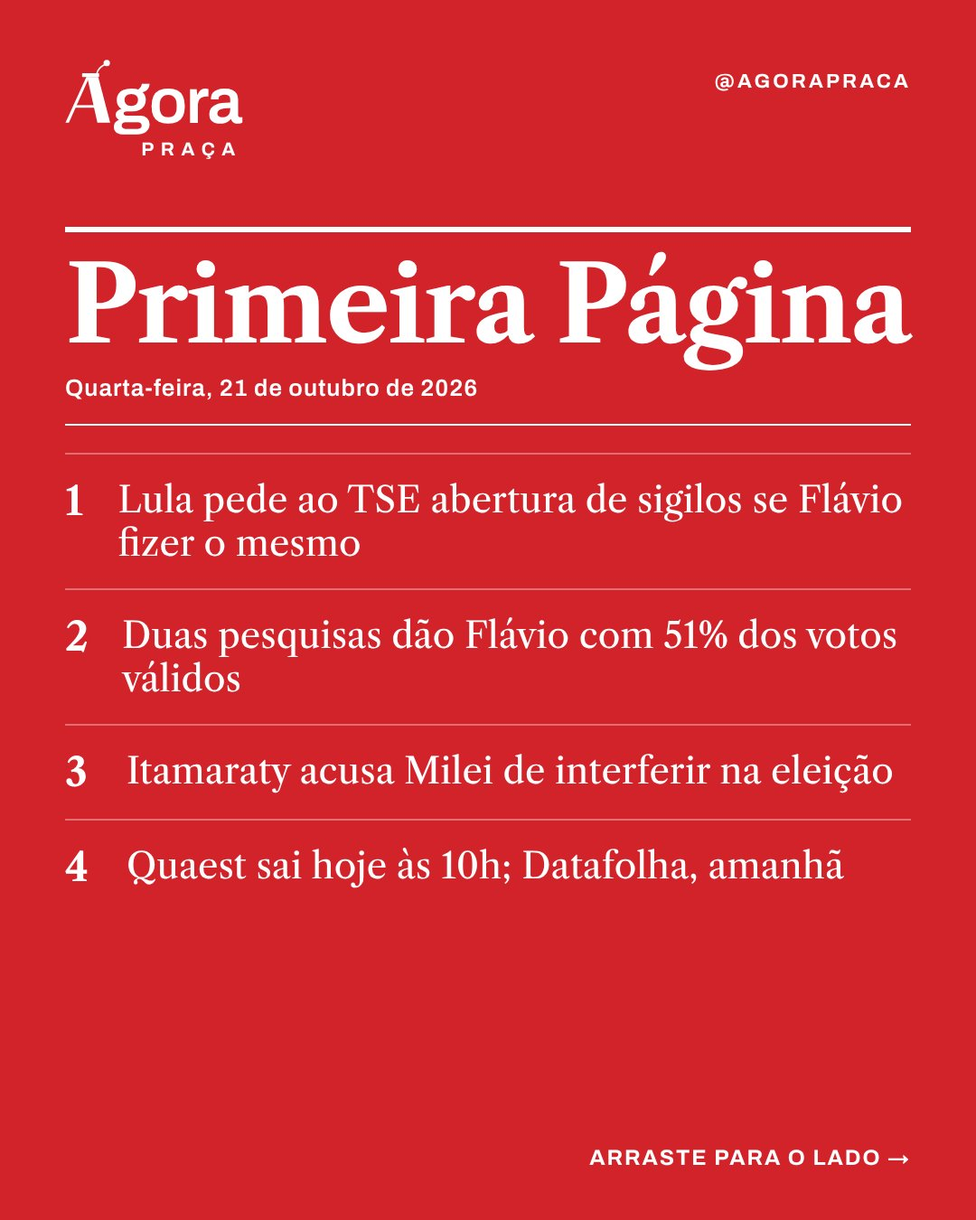
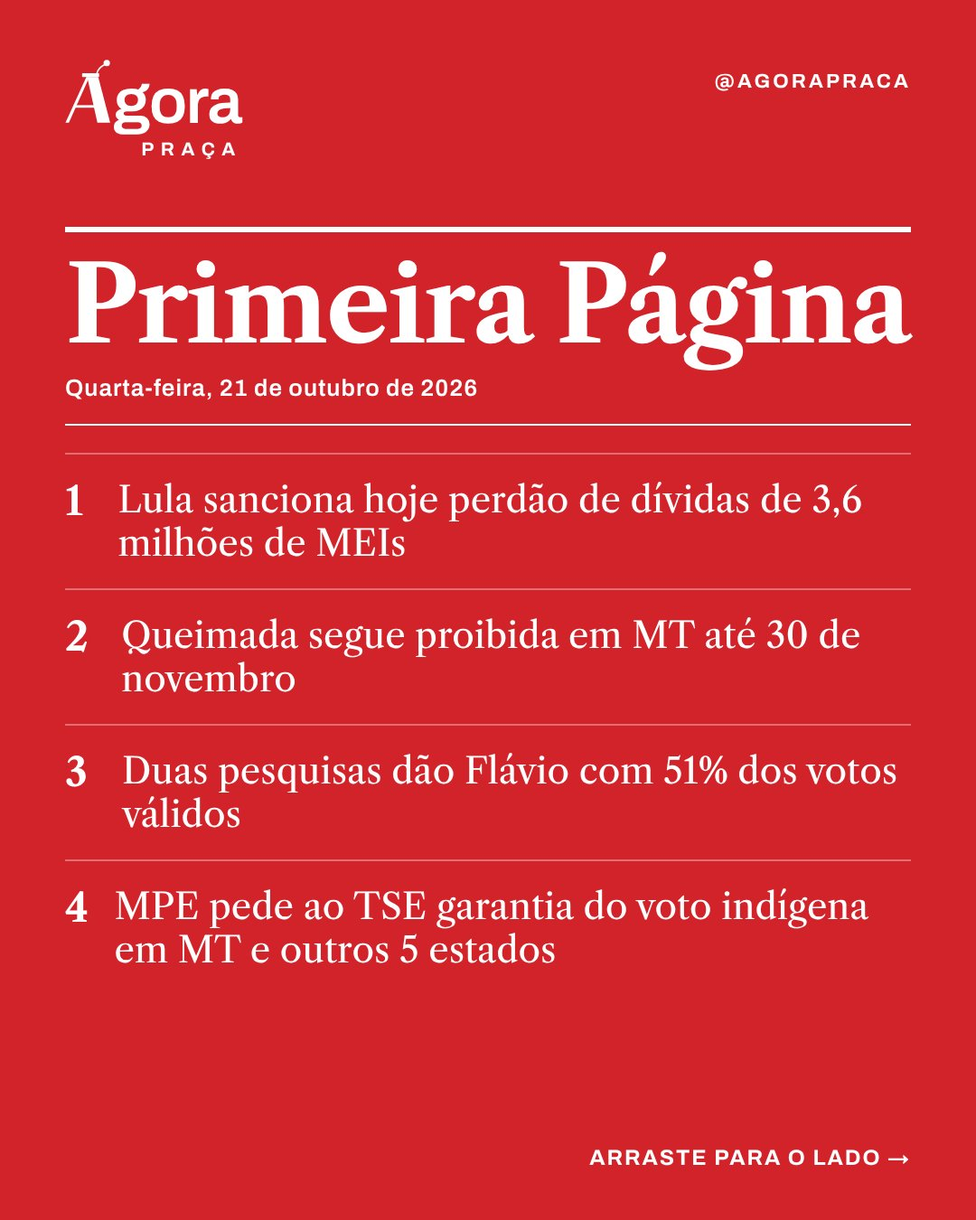
Primeira Página de 21/10 refeita: MEI, queimadas em MT, pesquisas e voto indígena
Claude-Session: https://claude.ai/code/session_01CdmM6LvxFe71fHrnqNZwTo

diff --git a/primeira-pagina/2026-10-21/index.html b/primeira-pagina/2026-10-21/index.html
@@ -4,12 +4,12 @@
 <meta charset="utf-8">
 <meta name="viewport" content="width=device-width, initial-scale=1, viewport-fit=cover">
 <title>Primeira Página de 21 out 2026 | Agora Praça</title>
-<meta name="description" content="Lula pede ao TSE que abra os sigilos bancário, fiscal e telefônico dele, de Janja e dos cinco filhos, se Flávio Bolsonaro fizer o mesmo com os dele e os da família. Aliados de Flávio dizem que ele não vai aceitar.">
+<meta name="description" content="Lula sanciona hoje a lei que perdoa dívidas de 3,6 milhões de MEIs, que somam R$ 12,57 bilhões, e sobe o teto de faturamento para R$ 110 mil em 2027. Para manter o perdão, o DAS precisa ficar em dia por seis meses.">
 <link rel="canonical" href="https://agorapraca.com.br/primeira-pagina/2026-10-21/">
 <meta property="og:type" content="website">
 <meta property="og:site_name" content="Agora Praça">
 <meta property="og:title" content="Primeira Página de 21 out 2026">
-<meta property="og:description" content="Lula pede ao TSE que abra os sigilos bancário, fiscal e telefônico dele, de Janja e dos cinco filhos, se Flávio Bolsonaro fizer o mesmo com os dele e os da família. Aliados de Flávio dizem que ele não vai aceitar.">
+<meta property="og:description" content="Lula sanciona hoje a lei que perdoa dívidas de 3,6 milhões de MEIs, que somam R$ 12,57 bilhões, e sobe o teto de faturamento para R$ 110 mil em 2027. Para manter o perdão, o DAS precisa ficar em dia por seis meses.">
 <meta property="og:url" content="https://agorapraca.com.br/primeira-pagina/2026-10-21/">
 <meta property="og:image" content="https://agorapraca.com.br/pp/2026-10-21/01.jpg">
 <meta property="og:locale" content="pt_BR">
@@ -33,11 +33,11 @@
 <div class="wrap estreita materia">
 <div class="chap"><span class="kicker kicker-red">Primeira Página</span><span class="sub">Edição das 7h</span></div>
 <h1>O resumo de quarta-feira, 21 de outubro de 2026</h1>
-<p class="linha-fina">Lula pede ao TSE que abra os sigilos dele e da família se Flávio fizer o mesmo, duas novas pesquisas mostram Flávio com 51% dos votos válidos e o Itamaraty acusa Javier Milei de tentar interferir na eleição. Faltam quatro dias para o 2º turno.</p>
+<p class="linha-fina">Lula sanciona hoje a lei que perdoa dívidas de MEIs e aumenta o teto de faturamento, a queimada segue proibida em Mato Grosso até o fim de novembro, duas pesquisas mostram empate técnico com Flávio numericamente à frente e o Ministério Público Eleitoral pede garantias para o voto indígena. Faltam quatro dias para o 2º turno.</p>
 <h2 class="h2-telas">Nesta edição</h2>
-<ol class="pp-lista pp-lista-g"><li><span class="n">1</span><span><a href="#s1">Lula pede ao TSE que abra os sigilos dele e de 6 familiares, se Flávio fizer o mesmo</a></span></li><li><span class="n">2</span><span><a href="#s2">Duas pesquisas mostram Flávio com 51% dos votos válidos e Lula com 49%</a></span></li><li><span class="n">3</span><span><a href="#s3">Itamaraty acusa Milei de tentar interferir na eleição brasileira</a></span></li></ol>
-<section class="pp-sec" id="s1"><span class="kicker kicker-red">Eleições 2026</span><h2>Lula pede ao TSE que abra os sigilos dele e de 6 familiares, se Flávio fizer o mesmo</h2><p>O presidente Luiz Inácio Lula da Silva (PT) enviou ao Tribunal Superior Eleitoral (TSE), na terça-feira (20), um requerimento que autoriza a quebra dos sigilos bancário, fiscal e telefônico dele e da família nos últimos oito anos. O pedido inclui a primeira-dama, Janja, e os cinco filhos: Lurian, Marcos Cláudio, Fábio Luís, Sandro Luís e Luís Claudio.</p><p>A autorização tem uma condição. Os dados de Lula só devem ser abertos se Flávio Bolsonaro (PL) fizer o mesmo com os dele, os da esposa, Fernanda, os dos pais, Jair e Rogéria Bolsonaro, e os dos irmãos Carlos, Eduardo e Jair Renan. Entram também as empresas em que os candidatos são sócios ou administradores: uma ligada a Lula e cinco ligadas a Flávio, uma delas uma offshore, segundo a Agência Brasil.</p><p>O requerimento foi encaminhado ao presidente do TSE, ministro Kassio Nunes Marques. Lula pediu que os dados fossem divulgados antes desta quarta-feira (21). Até a publicação desta edição, o tribunal não tinha decidido.</p><p>Flávio não se manifestou oficialmente. Aliados que integram a campanha disseram ao SBT News que ele não vai aceitar o desafio e classificaram a proposta como uma &quot;armadilha&quot; para gerar desgaste na reta final. No debate da Band, no domingo (18), Flávio disse não ter nada a esconder, mas não se comprometeu a abrir os dados.</p><p class="obs">Fontes: <a href="https://agenciabrasil.ebc.com.br/politica/noticia/2026-10/tse-lula-autoriza-quebra-de-sigilo-bancario-se-flavio-fizer-o-mesmo" rel="noopener">Agência Brasil, o requerimento ao TSE (20/10)</a> · <a href="https://sbtnews.sbt.com.br/colunas/coluna-do-tulio/flavio-nao-vai-aceitar-desafio-de-lula-para-abrir-sigilos" rel="noopener">SBT News, bastidores da campanha de Flávio (20/10)</a></p></section><section class="pp-sec" id="s2"><span class="kicker kicker-red">Pesquisas</span><h2>Duas pesquisas mostram Flávio com 51% dos votos válidos e Lula com 49%</h2><p>Duas pesquisas divulgadas na manhã desta quarta mostram Flávio Bolsonaro com 2 pontos de vantagem sobre Lula nos votos válidos, dentro da margem de erro. Nos números a seguir, o primeiro é de Flávio e o segundo, de Lula.</p><p>Na Meio/Ideia, são 51,1% a 48,9% nos votos válidos e 48% a 46% nos votos totais, com 3,4% de brancos e nulos e 2,6% de indecisos. Foram 1.500 entrevistas entre 15 e 19 de outubro, com margem de erro de 2,5 pontos. O registro no TSE é BR-08251/2026.</p><p>Na Palver, são 51% a 49% nos votos válidos e 50% a 48% nos totais. Foram 5.000 entrevistas pela internet entre 18 e 20 de outubro, com margem de 2,4 pontos. Em relação à rodada de 13 de outubro, Flávio manteve o número e Lula caiu 1 ponto.</p><p>A Quaest divulga a nova rodada às 10h de Brasília (9h em Mato Grosso). Foram 2.154 entrevistas presenciais entre 17 e 20 de outubro, registro BR-08535/2026. Na rodada anterior, de 14 de outubro, Flávio tinha 51% dos votos válidos e Lula, 49%.</p><p>Votos válidos são os votos dados a candidatos, sem brancos e nulos. É a mesma conta que define o vencedor no domingo.</p><p class="obs">Fontes: <a href="https://www.metropoles.com/brasil/meio-ideia-flavio-tem-511-dos-votos-validos-no-2o-turno-e-lula-489" rel="noopener">Metrópoles, Meio/Ideia (21/10)</a> · <a href="https://timesbrasil.com.br/brasil/decisao-2026-flavio-bolsonaro-tem-50-dos-votos-contra-48-de-lula-no-2o-turno-aponta-pesquisa-palver/" rel="noopener">Times Brasil, Palver (21/10)</a> · <a href="https://www.terra.com.br/noticias/eleicoes/pesquisas/quaest-divulga-nova-pesquisa-presidencial-nesta-quarta-feira-saiba-o-horario,1e6f3a873f42373d6ad322ca500535763ypq0pul.html" rel="noopener">Terra, Quaest às 10h (21/10)</a></p></section><section class="pp-sec" id="s3"><span class="kicker kicker-red">Internacional</span><h2>Itamaraty acusa Milei de tentar interferir na eleição brasileira</h2><p>O Ministério das Relações Exteriores divulgou nota na terça-feira (20) contra publicações do presidente da Argentina, Javier Milei, sobre Lula e a eleição brasileira. Nas redes, Milei chamou Lula de &quot;autoritário&quot; e &quot;ladrão&quot; e escreveu: &quot;Espero que o último truque sujo da campanha deles não inclua roubar a eleição&quot;.</p><p>A nota chama as falas de &quot;nova e inaceitável tentativa de ingerência externa no processo democrático brasileiro&quot; e defende a urna eletrônica: &quot;O sistema brasileiro de voto eletrônico é comprovadamente seguro, nunca registrou irregularidades&quot;. O texto termina dizendo que &quot;a decisão sobre o futuro do Brasil cabe exclusivamente ao povo brasileiro&quot;.</p><p>A relação entre os dois governos está rebaixada desde agosto, quando o governo Lula decidiu manter o embaixador em Buenos Aires, Julio Bitelli, no Brasil até Milei parar de ofender autoridades brasileiras. A crise começou depois que Milei declarou apoio a Flávio Bolsonaro.</p><p class="obs">Fontes: <a href="https://www.poder360.com.br/poder-internacional/itamaraty-diz-que-milei-tenta-interferir-em-eleicoes-brasileiras/" rel="noopener">Poder360, a nota do Itamaraty (20/10)</a></p></section><section class="pp-sec" id="agenda"><span class="kicker kicker-red">Agenda</span><h2>A semana</h2><ul class="pp-agenda"><li><b>Qua 21</b><span>Quaest divulga pesquisa do 2º turno às 10h de Brasília. Último dia de pagamento do Bolsa Família de outubro.</span></li><li><b>Qui 22</b><span>Datafolha divulga pesquisa do 2º turno.</span></li><li><b>Sex 23</b><span>Debate na TV Globo, depois do Jornal Nacional, o último antes da votação.</span></li><li><b>Sáb 24</b><span>Últimas pesquisas antes da votação: Quaest, Datafolha, AtlasIntel e CNT/MDA.</span></li><li><b>Dom 25</b><span>2º turno das eleições, das 8h às 17h de Brasília (7h às 16h em Mato Grosso).</span></li></ul></section>
-<details class="pp-insta"><summary>Ver como saiu no Instagram</summary><div class="telas"><img src="/pp/2026-10-21/01.jpg" alt="Tela 1 da Primeira Página" loading="lazy" width="1080" height="1350"><img src="/pp/2026-10-21/02.jpg" alt="Tela 2 da Primeira Página" loading="lazy" width="1080" height="1350"><img src="/pp/2026-10-21/03.jpg" alt="Tela 3 da Primeira Página" loading="lazy" width="1080" height="1350"><img src="/pp/2026-10-21/04.jpg" alt="Tela 4 da Primeira Página" loading="lazy" width="1080" height="1350"><img src="/pp/2026-10-21/05.jpg" alt="Tela 5 da Primeira Página" loading="lazy" width="1080" height="1350"></div></details>
+<ol class="pp-lista pp-lista-g"><li><span class="n">1</span><span><a href="#s1">Lula sanciona hoje lei que perdoa dívidas de 3,6 milhões de MEIs e sobe o teto para R$ 110 mil</a></span></li><li><span class="n">2</span><span><a href="#s2">Queimada segue proibida em MT até 30 de novembro, com multa de até R$ 10 mil por hectare</a></span></li><li><span class="n">3</span><span><a href="#s3">Duas pesquisas mostram Flávio com 51% dos votos válidos e Lula com 49%</a></span></li><li><span class="n">4</span><span><a href="#s4">MPE pede ao TSE que garanta o voto indígena no domingo em MT e outros 5 estados</a></span></li></ol>
+<section class="pp-sec" id="s1"><span class="kicker kicker-red">Serviço</span><h2>Lula sanciona hoje lei que perdoa dívidas de 3,6 milhões de MEIs e sobe o teto para R$ 110 mil</h2><p>O presidente Lula sanciona nesta quarta-feira (21), no Palácio do Planalto, o projeto Prospera MEI (PLP 186/2026), aprovado pelo Senado em 15 de outubro. A lei passa a valer depois da publicação no Diário Oficial da União. Até o fechamento desta edição, ela ainda não tinha sido publicada, e não se sabia se haveria vetos.</p><p>O teto de faturamento anual do microempreendedor individual sobe de R$ 81 mil, valor fixado em 2016, para R$ 110 mil em 2027 e R$ 140 mil em 2028. Para quem abrir a empresa no meio do ano, o limite mensal será de R$ 9.166,67 em 2027 e de R$ 11.666,67 em 2028.</p><p>O perdão vale para dívidas com a União inscritas na Dívida Ativa até 13 de outubro de 2026. Segundo a Procuradoria-Geral da Fazenda Nacional (PGFN), são cerca de 3,6 milhões de MEIs com R$ 12,57 bilhões em débitos, dos quais cerca de R$ 11 bilhões são considerados de recuperação muito difícil ou impossível.</p><p>Há condições. O MEI precisa pagar em dia o DAS dos seis meses seguintes à entrada em vigor da lei, ou o perdão é cancelado. Quem tem ação na Justiça sobre essas dívidas precisa desistir dela, sem pagar honorários. Valores já pagos não serão devolvidos.</p><p>As fontes divergem num ponto: a Agência Senado descreveu que o MEI precisa fazer um requerimento, e a PGFN afirmou, na segunda-feira (19), que o perdão será automático, sem pedido nem cadastro. A regra final depende do texto sancionado e da regulamentação da PGFN.</p><p>Atenção a golpes: nenhum órgão cobra taxa para conceder o perdão. Desconfie de boleto, link ou mensagem que peça pagamento ou dados em nome de &quot;perdão do MEI&quot;. Os canais oficiais são o Portal do Empreendedor e o Regularize, da PGFN.</p><p class="obs">Fontes: <a href="https://www12.senado.leg.br/noticias/materias/2026/10/15/senado-aprova-aumento-do-teto-para-mei-e-perdao-de-dividas" rel="noopener">Agência Senado, aprovação do projeto (15/10)</a> · <a href="https://www.contabeis.com.br/noticias/80184/pgfn-explica-como-funcionara-perdao-de-dividas-do-mei/" rel="noopener">Contábeis, a explicação da PGFN (20/10)</a> · <a href="https://www.cnnbrasil.com.br/eleicoes/lula-sanciona-hoje-perdao-de-dividas-de-meis-e-participa-de-caminhada-em-bh/" rel="noopener">CNN Brasil, a sanção hoje (21/10)</a></p></section><section class="pp-sec" id="s2"><span class="kicker kicker-red">Mato Grosso</span><h2>Queimada segue proibida em MT até 30 de novembro, com multa de até R$ 10 mil por hectare</h2><p>O uso do fogo para limpeza e manejo de áreas está proibido em todo o Mato Grosso de 1º de julho a 30 de novembro de 2026, pelo Decreto estadual nº 2.015, assinado em 28 de abril. O decreto também declarou estado de emergência ambiental de abril a dezembro e permite ao governo prorrogar ou antecipar o fim da proibição.</p><p>A proibição continua valendo mesmo com as primeiras chuvas. A única exceção são as queimas feitas ou supervisionadas por órgãos públicos de prevenção e combate a incêndios, que precisam avisar a Sala de Situação com 24 horas de antecedência.</p><p>As multas seguem o Decreto federal nº 6.514/2008: R$ 3 mil por hectare para uso de fogo sem autorização em área de pasto ou lavoura, R$ 5 mil por hectare em floresta plantada e R$ 10 mil por hectare para incêndio em vegetação nativa. A queima de lixo a céu aberto em área urbana pode render multa de R$ 5 mil a R$ 50 milhões. Além da multa, a infração pode ser enquadrada como crime ambiental.</p><p class="obs">Fontes: <a href="https://conexaomt.com/destaque/uso-do-fogo-segue-proibido-em-mato-grosso-ate-30-de-novembrocom-uma-excecao/" rel="noopener">Conexão MT, regras do período proibitivo (14/9)</a> · <a href="https://www.legisweb.com.br/legislacao/?id=494971" rel="noopener">Decreto estadual 2.015/2026</a></p></section><section class="pp-sec" id="s3"><span class="kicker kicker-red">Pesquisas</span><h2>Duas pesquisas mostram Flávio com 51% dos votos válidos e Lula com 49%</h2><p>Duas pesquisas divulgadas na manhã desta quarta mostram Flávio Bolsonaro (PL) com 2 pontos de vantagem sobre Lula (PT) nos votos válidos, dentro da margem de erro. Nos números a seguir, o primeiro é de Flávio e o segundo, de Lula.</p><p>Na Meio/Ideia, são 51,1% a 48,9% nos votos válidos e 48% a 46% nos votos totais, com 3,4% de brancos e nulos e 2,6% de indecisos. Foram 1.500 entrevistas entre 15 e 19 de outubro, com margem de erro de 2,5 pontos. O registro no TSE é BR-08251/2026.</p><p>Na Palver, são 51% a 49% nos votos válidos e 50% a 48% nos totais. Foram 5.000 entrevistas pela internet entre 18 e 20 de outubro, com margem de 2,4 pontos.</p><p>A Quaest divulga a nova rodada às 10h de Brasília (9h em Mato Grosso), com 2.154 entrevistas presenciais entre 17 e 20 de outubro, registro BR-08535/2026. Votos válidos são os votos dados a candidatos, sem brancos e nulos. É a mesma conta que define o vencedor no domingo.</p><p class="obs">Fontes: <a href="https://www.metropoles.com/brasil/meio-ideia-flavio-tem-511-dos-votos-validos-no-2o-turno-e-lula-489" rel="noopener">Metrópoles, Meio/Ideia (21/10)</a> · <a href="https://timesbrasil.com.br/brasil/decisao-2026-flavio-bolsonaro-tem-50-dos-votos-contra-48-de-lula-no-2o-turno-aponta-pesquisa-palver/" rel="noopener">Times Brasil, Palver (21/10)</a> · <a href="https://www.terra.com.br/noticias/eleicoes/pesquisas/quaest-divulga-nova-pesquisa-presidencial-nesta-quarta-feira-saiba-o-horario,1e6f3a873f42373d6ad322ca500535763ypq0pul.html" rel="noopener">Terra, Quaest às 10h (21/10)</a></p></section><section class="pp-sec" id="s4"><span class="kicker kicker-red">Eleições</span><h2>MPE pede ao TSE que garanta o voto indígena no domingo em MT e outros 5 estados</h2><p>O Ministério Público Eleitoral pediu à presidência do Tribunal Superior Eleitoral que tome providências para garantir que a população indígena consiga votar no 2º turno, no domingo (25).</p><p>No 1º turno, lideranças indígenas relataram falta de transporte gratuito até os locais de votação. O MPE também aponta que a falta de mesários que falam línguas indígenas pode ter contribuído para a abstenção. Os problemas foram relatados no Amazonas, em Minas Gerais, em Mato Grosso, em Pernambuco, no Amapá e no Pará.</p><p>O caso mais detalhado é o da Terra Indígena Vale do Javari, no Amazonas, onde 43 aldeias seguem sem transporte garantido. O TRE-AM negou um pedido de transporte fluvial, água e comida, alegando que a solicitação chegou tarde e que faltavam recursos. A abstenção desses eleitores no 1º turno foi de cerca de 30%.</p><p>A Agora procurou o TRE-MT para saber quais aldeias de Mato Grosso foram afetadas e se haverá transporte no domingo.</p><p class="obs">Fontes: <a href="https://agenciabrasil.ebc.com.br/radioagencia-nacional/justica/audio/2026-10/mpe-pede-ao-tse-acoes-para-garantir-indigenas-no-2o-turno-das-eleicoes" rel="noopener">Agência Brasil, Radioagência Nacional (20/10)</a></p></section><section class="pp-sec" id="agenda"><span class="kicker kicker-red">Agenda</span><h2>A semana</h2><ul class="pp-agenda"><li><b>Qua 21</b><span>Lula sanciona a lei do MEI. Quaest divulga pesquisa às 10h de Brasília. Último dia de pagamento do Bolsa Família de outubro.</span></li><li><b>Qui 22</b><span>Datafolha divulga pesquisa do 2º turno.</span></li><li><b>Sex 23</b><span>Debate na TV Globo, depois do Jornal Nacional, o último antes da votação.</span></li><li><b>Sáb 24</b><span>Últimas pesquisas antes da votação: Quaest, Datafolha, Atlas e CNT/MDA.</span></li><li><b>Dom 25</b><span>2º turno das eleições, das 8h às 17h de Brasília (7h às 16h em Mato Grosso).</span></li></ul></section>
+<details class="pp-insta"><summary>Ver como saiu no Instagram</summary><div class="telas"><img src="/pp/2026-10-21/01.jpg" alt="Tela 1 da Primeira Página" loading="lazy" width="1080" height="1350"><img src="/pp/2026-10-21/02.jpg" alt="Tela 2 da Primeira Página" loading="lazy" width="1080" height="1350"><img src="/pp/2026-10-21/03.jpg" alt="Tela 3 da Primeira Página" loading="lazy" width="1080" height="1350"><img src="/pp/2026-10-21/04.jpg" alt="Tela 4 da Primeira Página" loading="lazy" width="1080" height="1350"><img src="/pp/2026-10-21/05.jpg" alt="Tela 5 da Primeira Página" loading="lazy" width="1080" height="1350"><img src="/pp/2026-10-21/06.jpg" alt="Tela 6 da Primeira Página" loading="lazy" width="1080" height="1350"></div></details>
 </div></main>
 <footer><div class="wrap">
 <div class="foot-brand"><svg viewBox="-47 -28 200 200" aria-hidden="true"><rect x="-47" y="-28" width="200" height="200" fill="#D2232A"/><rect x="40" y="28" width="40" height="9" rx="1.5" fill="#FFF"/><polygon points="52,37 78,37 106,144 76,144" fill="#FFF"/><polygon points="50,37 57,37 9,144 1,144" fill="#FFF"/><rect x="20" y="103" width="49" height="6" fill="#FFF"/><path d="M75 28 C 77 19, 84 12, 92 8" fill="none" stroke="#FFF" stroke-width="3.5" stroke-linecap="round"/><circle cx="98" cy="4" r="7.5" fill="#FFF"/></svg><div><strong>Agora Praça</strong><span>Jornalismo digital independente. Redação em Primavera do Leste (MT).</span></div></div>

diff --git a/primeira-pagina/index.html b/primeira-pagina/index.html
@@ -31,7 +31,7 @@
 </div></header>
 <main id="conteudo">
 <section class="sec"><div class="wrap"><div class="sec-head"><h1 class="h1-sec">Primeira Página</h1><span>O resumo do dia, toda manhã às 7h</span></div><div class="pps"><div class="pp-idx"><div class="pp"><div class="pp-head"><span class="pp-tit">Primeira Página</span><span class="pp-data">quarta-feira, 21 de outubro de 2026</span></div>
-<ol class="pp-lista"><li><span class="n">1</span><span>Lula pede ao TSE que abra os sigilos bancário, fiscal e telefônico dele, de Janja e dos cinco filhos, se Flávio Bolsonaro fizer o mesmo com os dele e os da família. Aliados de Flávio dizem que ele não vai aceitar.</span></li><li><span class="n">2</span><span>Duas pesquisas divulgadas hoje mostram Flávio com 51% dos votos válidos e Lula com 49%: Meio/Ideia (51,1% a 48,9%) e Palver (51% a 49%). Nas duas, empate técnico.</span></li><li><span class="n">3</span><span>Itamaraty acusa o presidente argentino, Javier Milei, de tentar interferir na eleição depois que ele chamou Lula de &quot;ladrão&quot; e sugeriu fraude.</span></li><li><span class="n">4</span><span>A semana: Quaest sai hoje às 10h e Datafolha, amanhã (22). Debate na Globo na sexta (23), últimas pesquisas no sábado (24) e 2º turno no domingo, 25.</span></li></ol>
+<ol class="pp-lista"><li><span class="n">1</span><span>Lula sanciona hoje a lei que perdoa dívidas de 3,6 milhões de MEIs, que somam R$ 12,57 bilhões, e sobe o teto de faturamento para R$ 110 mil em 2027. Para manter o perdão, o DAS precisa ficar em dia por seis meses.</span></li><li><span class="n">2</span><span>Queimada segue proibida em Mato Grosso até 30 de novembro. A multa vai de R$ 3 mil por hectare em pasto ou lavoura a R$ 10 mil por hectare em vegetação nativa.</span></li><li><span class="n">3</span><span>Duas pesquisas divulgadas hoje mostram Flávio com 51% dos votos válidos e Lula com 49%. Nas duas, empate técnico. A Quaest sai às 10h.</span></li><li><span class="n">4</span><span>MPE pede ao TSE que garanta o voto indígena no domingo em Mato Grosso e em outros 5 estados, depois de relatos de falta de transporte no 1º turno.</span></li></ol>
 <a class="pp-mais" href="/primeira-pagina/2026-10-21/">Ver a edição completa →</a></div></div><div class="pp-idx"><div class="pp"><div class="pp-head"><span class="pp-tit">Primeira Página</span><span class="pp-data">terça-feira, 20 de outubro de 2026</span></div>
 <ol class="pp-lista"><li><span class="n">1</span><span>Lula leva hoje ao TSE pedido para abrir o próprio sigilo telefônico e bancário e o dos cinco filhos, e desafia Flávio Bolsonaro a abrir o sigilo bancário e fiscal dele, das empresas e da família.</span></li><li><span class="n">2</span><span>Flávio está à frente em 12 de 13 pesquisas registradas no TSE. A diferença vai de 0,6 a 4 pontos nos votos válidos e, na maioria, fica dentro da margem de erro. Só a Vox Brasil tem Lula à frente, com 51% a 49%.</span></li><li><span class="n">3</span><span><a href="/noticias/franca-toque-de-recolher-paris-protestos-saques/">França tem noite calma sob toque de recolher; estudantes e coletes amarelos marcaram novos protestos para sábado.</a></span></li><li><span class="n">4</span><span>A semana: Bolsa Família termina de pagar amanhã (21). O debate na Globo, na sexta (23), está confirmado pelos dois candidatos. O 2º turno é no domingo, 25.</span></li></ol>
 <a class="pp-mais" href="/primeira-pagina/2026-10-20/">Ver a edição completa →</a></div></div><div class="pp-idx"><div class="pp"><div class="pp-head"><span class="pp-tit">Primeira Página</span><span class="pp-data">segunda-feira, 19 de outubro de 2026</span></div>

diff --git a/index.html b/index.html
@@ -37,7 +37,7 @@
 <div class="item-txt"><span class="kicker kicker-orange">Meio Ambiente</span><h3>Ondas de calor gigantes ficaram 20 vezes mais frequentes desde os anos 1960</h3><time datetime="2026-10-20">20 out 2026</time></div></a></article><article class="item"><a href="/noticias/tse-24-horas-meta-tratamento-igual-lula-flavio/"><div class="thumb"><img src="/img/thumb/meta.jpg" alt="" loading="lazy" width="960" height="540"></div>
 <div class="item-txt"><span class="kicker kicker-red">Política</span><h3>TSE dá 24 horas para a Meta comprovar tratamento igual a Lula e Flávio</h3><time datetime="2026-10-19">19 out 2026</time></div></a></article></div>
 <div class="topo-pp"><div class="pp"><div class="pp-head"><span class="pp-tit">Primeira Página</span><span class="pp-data">quarta-feira, 21 de outubro de 2026</span></div>
-<ol class="pp-lista"><li><span class="n">1</span><span>Lula pede ao TSE que abra os sigilos bancário, fiscal e telefônico dele, de Janja e dos cinco filhos, se Flávio Bolsonaro fizer o mesmo com os dele e os da família. Aliados de Flávio dizem que ele não vai aceitar.</span></li><li><span class="n">2</span><span>Duas pesquisas divulgadas hoje mostram Flávio com 51% dos votos válidos e Lula com 49%: Meio/Ideia (51,1% a 48,9%) e Palver (51% a 49%). Nas duas, empate técnico.</span></li><li><span class="n">3</span><span>Itamaraty acusa o presidente argentino, Javier Milei, de tentar interferir na eleição depois que ele chamou Lula de &quot;ladrão&quot; e sugeriu fraude.</span></li><li><span class="n">4</span><span>A semana: Quaest sai hoje às 10h e Datafolha, amanhã (22). Debate na Globo na sexta (23), últimas pesquisas no sábado (24) e 2º turno no domingo, 25.</span></li></ol>
+<ol class="pp-lista"><li><span class="n">1</span><span>Lula sanciona hoje a lei que perdoa dívidas de 3,6 milhões de MEIs, que somam R$ 12,57 bilhões, e sobe o teto de faturamento para R$ 110 mil em 2027. Para manter o perdão, o DAS precisa ficar em dia por seis meses.</span></li><li><span class="n">2</span><span>Queimada segue proibida em Mato Grosso até 30 de novembro. A multa vai de R$ 3 mil por hectare em pasto ou lavoura a R$ 10 mil por hectare em vegetação nativa.</span></li><li><span class="n">3</span><span>Duas pesquisas divulgadas hoje mostram Flávio com 51% dos votos válidos e Lula com 49%. Nas duas, empate técnico. A Quaest sai às 10h.</span></li><li><span class="n">4</span><span>MPE pede ao TSE que garanta o voto indígena no domingo em Mato Grosso e em outros 5 estados, depois de relatos de falta de transporte no 1º turno.</span></li></ol>
 <a class="pp-mais" href="/primeira-pagina/2026-10-21/">Ver a edição completa →</a></div></div>
 </div></section>
 <section class="sec"><div class="wrap"><div class="sec-head"><h2>Últimas</h2></div><div class="grade"><article class="item"><a href="/noticias/franca-toque-de-recolher-paris-protestos-saques/"><div class="thumb"><img src="/img/thumb/franca.jpg" alt="" loading="lazy" width="960" height="540"></div>

diff --git a/_src/conteudo.py b/_src/conteudo.py
@@ -601,50 +601,59 @@ VIDEOS = {
 # Primeira Página: o resumo diário das 7h
 EDICOES = [
     {
-        "data": "2026-10-21", "pasta": "pp/2026-10-21", "telas": 5,
+        "data": "2026-10-21", "pasta": "pp/2026-10-21", "telas": 6,
         "materia": {
-            "abertura": "Lula pede ao TSE que abra os sigilos dele e da família se Flávio fizer o mesmo, duas novas pesquisas mostram Flávio com 51% dos votos válidos e o Itamaraty acusa Javier Milei de tentar interferir na eleição. Faltam quatro dias para o 2º turno.",
+            "abertura": "Lula sanciona hoje a lei que perdoa dívidas de MEIs e aumenta o teto de faturamento, a queimada segue proibida em Mato Grosso até o fim de novembro, duas pesquisas mostram empate técnico com Flávio numericamente à frente e o Ministério Público Eleitoral pede garantias para o voto indígena. Faltam quatro dias para o 2º turno.",
             "secoes": [
-                {"chapeu": "Eleições 2026", "titulo": "Lula pede ao TSE que abra os sigilos dele e de 6 familiares, se Flávio fizer o mesmo",
+                {"chapeu": "Serviço", "titulo": "Lula sanciona hoje lei que perdoa dívidas de 3,6 milhões de MEIs e sobe o teto para R$ 110 mil",
                  "texto": [
-                    "O presidente Luiz Inácio Lula da Silva (PT) enviou ao Tribunal Superior Eleitoral (TSE), na terça-feira (20), um requerimento que autoriza a quebra dos sigilos bancário, fiscal e telefônico dele e da família nos últimos oito anos. O pedido inclui a primeira-dama, Janja, e os cinco filhos: Lurian, Marcos Cláudio, Fábio Luís, Sandro Luís e Luís Claudio.",
-                    "A autorização tem uma condição. Os dados de Lula só devem ser abertos se Flávio Bolsonaro (PL) fizer o mesmo com os dele, os da esposa, Fernanda, os dos pais, Jair e Rogéria Bolsonaro, e os dos irmãos Carlos, Eduardo e Jair Renan. Entram também as empresas em que os candidatos são sócios ou administradores: uma ligada a Lula e cinco ligadas a Flávio, uma delas uma offshore, segundo a Agência Brasil.",
-                    "O requerimento foi encaminhado ao presidente do TSE, ministro Kassio Nunes Marques. Lula pediu que os dados fossem divulgados antes desta quarta-feira (21). Até a publicação desta edição, o tribunal não tinha decidido.",
-                    "Flávio não se manifestou oficialmente. Aliados que integram a campanha disseram ao SBT News que ele não vai aceitar o desafio e classificaram a proposta como uma \"armadilha\" para gerar desgaste na reta final. No debate da Band, no domingo (18), Flávio disse não ter nada a esconder, mas não se comprometeu a abrir os dados.",
+                    "O presidente Lula sanciona nesta quarta-feira (21), no Palácio do Planalto, o projeto Prospera MEI (PLP 186/2026), aprovado pelo Senado em 15 de outubro. A lei passa a valer depois da publicação no Diário Oficial da União. Até o fechamento desta edição, ela ainda não tinha sido publicada, e não se sabia se haveria vetos.",
+                    "O teto de faturamento anual do microempreendedor individual sobe de R$ 81 mil, valor fixado em 2016, para R$ 110 mil em 2027 e R$ 140 mil em 2028. Para quem abrir a empresa no meio do ano, o limite mensal será de R$ 9.166,67 em 2027 e de R$ 11.666,67 em 2028.",
+                    "O perdão vale para dívidas com a União inscritas na Dívida Ativa até 13 de outubro de 2026. Segundo a Procuradoria-Geral da Fazenda Nacional (PGFN), são cerca de 3,6 milhões de MEIs com R$ 12,57 bilhões em débitos, dos quais cerca de R$ 11 bilhões são considerados de recuperação muito difícil ou impossível.",
+                    "Há condições. O MEI precisa pagar em dia o DAS dos seis meses seguintes à entrada em vigor da lei, ou o perdão é cancelado. Quem tem ação na Justiça sobre essas dívidas precisa desistir dela, sem pagar honorários. Valores já pagos não serão devolvidos.",
+                    "As fontes divergem num ponto: a Agência Senado descreveu que o MEI precisa fazer um requerimento, e a PGFN afirmou, na segunda-feira (19), que o perdão será automático, sem pedido nem cadastro. A regra final depende do texto sancionado e da regulamentação da PGFN.",
+                    "Atenção a golpes: nenhum órgão cobra taxa para conceder o perdão. Desconfie de boleto, link ou mensagem que peça pagamento ou dados em nome de \"perdão do MEI\". Os canais oficiais são o Portal do Empreendedor e o Regularize, da PGFN.",
                  ],
-                 "fontes": [("Agência Brasil, o requerimento ao TSE (20/10)", "https://agenciabrasil.ebc.com.br/politica/noticia/2026-10/tse-lula-autoriza-quebra-de-sigilo-bancario-se-flavio-fizer-o-mesmo"), ("SBT News, bastidores da campanha de Flávio (20/10)", "https://sbtnews.sbt.com.br/colunas/coluna-do-tulio/flavio-nao-vai-aceitar-desafio-de-lula-para-abrir-sigilos")]},
+                 "fontes": [("Agência Senado, aprovação do projeto (15/10)", "https://www12.senado.leg.br/noticias/materias/2026/10/15/senado-aprova-aumento-do-teto-para-mei-e-perdao-de-dividas"), ("Contábeis, a explicação da PGFN (20/10)", "https://www.contabeis.com.br/noticias/80184/pgfn-explica-como-funcionara-perdao-de-dividas-do-mei/"), ("CNN Brasil, a sanção hoje (21/10)", "https://www.cnnbrasil.com.br/eleicoes/lula-sanciona-hoje-perdao-de-dividas-de-meis-e-participa-de-caminhada-em-bh/")]},
+                {"chapeu": "Mato Grosso", "titulo": "Queimada segue proibida em MT até 30 de novembro, com multa de até R$ 10 mil por hectare",
+                 "texto": [
+                    "O uso do fogo para limpeza e manejo de áreas está proibido em todo o Mato Grosso de 1º de julho a 30 de novembro de 2026, pelo Decreto estadual nº 2.015, assinado em 28 de abril. O decreto também declarou estado de emergência ambiental de abril a dezembro e permite ao governo prorrogar ou antecipar o fim da proibição.",
+                    "A proibição continua valendo mesmo com as primeiras chuvas. A única exceção são as queimas feitas ou supervisionadas por órgãos públicos de prevenção e combate a incêndios, que precisam avisar a Sala de Situação com 24 horas de antecedência.",
+                    "As multas seguem o Decreto federal nº 6.514/2008: R$ 3 mil por hectare para uso de fogo sem autorização em área de pasto ou lavoura, R$ 5 mil por hectare em floresta plantada e R$ 10 mil por hectare para incêndio em vegetação nativa. A queima de lixo a céu aberto em área urbana pode render multa de R$ 5 mil a R$ 50 milhões. Além da multa, a infração pode ser enquadrada como crime ambiental.",
+                 ],
+                 "fontes": [("Conexão MT, regras do período proibitivo (14/9)", "https://conexaomt.com/destaque/uso-do-fogo-segue-proibido-em-mato-grosso-ate-30-de-novembrocom-uma-excecao/"), ("Decreto estadual 2.015/2026", "https://www.legisweb.com.br/legislacao/?id=494971")]},
                 {"chapeu": "Pesquisas", "titulo": "Duas pesquisas mostram Flávio com 51% dos votos válidos e Lula com 49%",
                  "texto": [
-                    "Duas pesquisas divulgadas na manhã desta quarta mostram Flávio Bolsonaro com 2 pontos de vantagem sobre Lula nos votos válidos, dentro da margem de erro. Nos números a seguir, o primeiro é de Flávio e o segundo, de Lula.",
+                    "Duas pesquisas divulgadas na manhã desta quarta mostram Flávio Bolsonaro (PL) com 2 pontos de vantagem sobre Lula (PT) nos votos válidos, dentro da margem de erro. Nos números a seguir, o primeiro é de Flávio e o segundo, de Lula.",
                     "Na Meio/Ideia, são 51,1% a 48,9% nos votos válidos e 48% a 46% nos votos totais, com 3,4% de brancos e nulos e 2,6% de indecisos. Foram 1.500 entrevistas entre 15 e 19 de outubro, com margem de erro de 2,5 pontos. O registro no TSE é BR-08251/2026.",
-                    "Na Palver, são 51% a 49% nos votos válidos e 50% a 48% nos totais. Foram 5.000 entrevistas pela internet entre 18 e 20 de outubro, com margem de 2,4 pontos. Em relação à rodada de 13 de outubro, Flávio manteve o número e Lula caiu 1 ponto.",
-                    "A Quaest divulga a nova rodada às 10h de Brasília (9h em Mato Grosso). Foram 2.154 entrevistas presenciais entre 17 e 20 de outubro, registro BR-08535/2026. Na rodada anterior, de 14 de outubro, Flávio tinha 51% dos votos válidos e Lula, 49%.",
-                    "Votos válidos são os votos dados a candidatos, sem brancos e nulos. É a mesma conta que define o vencedor no domingo.",
+                    "Na Palver, são 51% a 49% nos votos válidos e 50% a 48% nos totais. Foram 5.000 entrevistas pela internet entre 18 e 20 de outubro, com margem de 2,4 pontos.",
+                    "A Quaest divulga a nova rodada às 10h de Brasília (9h em Mato Grosso), com 2.154 entrevistas presenciais entre 17 e 20 de outubro, registro BR-08535/2026. Votos válidos são os votos dados a candidatos, sem brancos e nulos. É a mesma conta que define o vencedor no domingo.",
                  ],
                  "fontes": [("Metrópoles, Meio/Ideia (21/10)", "https://www.metropoles.com/brasil/meio-ideia-flavio-tem-511-dos-votos-validos-no-2o-turno-e-lula-489"), ("Times Brasil, Palver (21/10)", "https://timesbrasil.com.br/brasil/decisao-2026-flavio-bolsonaro-tem-50-dos-votos-contra-48-de-lula-no-2o-turno-aponta-pesquisa-palver/"), ("Terra, Quaest às 10h (21/10)", "https://www.terra.com.br/noticias/eleicoes/pesquisas/quaest-divulga-nova-pesquisa-presidencial-nesta-quarta-feira-saiba-o-horario,1e6f3a873f42373d6ad322ca500535763ypq0pul.html")]},
-                {"chapeu": "Internacional", "titulo": "Itamaraty acusa Milei de tentar interferir na eleição brasileira",
+                {"chapeu": "Eleições", "titulo": "MPE pede ao TSE que garanta o voto indígena no domingo em MT e outros 5 estados",
                  "texto": [
-                    "O Ministério das Relações Exteriores divulgou nota na terça-feira (20) contra publicações do presidente da Argentina, Javier Milei, sobre Lula e a eleição brasileira. Nas redes, Milei chamou Lula de \"autoritário\" e \"ladrão\" e escreveu: \"Espero que o último truque sujo da campanha deles não inclua roubar a eleição\".",
-                    "A nota chama as falas de \"nova e inaceitável tentativa de ingerência externa no processo democrático brasileiro\" e defende a urna eletrônica: \"O sistema brasileiro de voto eletrônico é comprovadamente seguro, nunca registrou irregularidades\". O texto termina dizendo que \"a decisão sobre o futuro do Brasil cabe exclusivamente ao povo brasileiro\".",
-                    "A relação entre os dois governos está rebaixada desde agosto, quando o governo Lula decidiu manter o embaixador em Buenos Aires, Julio Bitelli, no Brasil até Milei parar de ofender autoridades brasileiras. A crise começou depois que Milei declarou apoio a Flávio Bolsonaro.",
+                    "O Ministério Público Eleitoral pediu à presidência do Tribunal Superior Eleitoral que tome providências para garantir que a população indígena consiga votar no 2º turno, no domingo (25).",
+                    "No 1º turno, lideranças indígenas relataram falta de transporte gratuito até os locais de votação. O MPE também aponta que a falta de mesários que falam línguas indígenas pode ter contribuído para a abstenção. Os problemas foram relatados no Amazonas, em Minas Gerais, em Mato Grosso, em Pernambuco, no Amapá e no Pará.",
+                    "O caso mais detalhado é o da Terra Indígena Vale do Javari, no Amazonas, onde 43 aldeias seguem sem transporte garantido. O TRE-AM negou um pedido de transporte fluvial, água e comida, alegando que a solicitação chegou tarde e que faltavam recursos. A abstenção desses eleitores no 1º turno foi de cerca de 30%.",
+                    "A Agora procurou o TRE-MT para saber quais aldeias de Mato Grosso foram afetadas e se haverá transporte no domingo.",
                  ],
-                 "fontes": [("Poder360, a nota do Itamaraty (20/10)", "https://www.poder360.com.br/poder-internacional/itamaraty-diz-que-milei-tenta-interferir-em-eleicoes-brasileiras/")]},
+                 "fontes": [("Agência Brasil, Radioagência Nacional (20/10)", "https://agenciabrasil.ebc.com.br/radioagencia-nacional/justica/audio/2026-10/mpe-pede-ao-tse-acoes-para-garantir-indigenas-no-2o-turno-das-eleicoes")]},
             ],
             "agenda": [
-                ("Qua 21", "Quaest divulga pesquisa do 2º turno às 10h de Brasília. Último dia de pagamento do Bolsa Família de outubro."),
+                ("Qua 21", "Lula sanciona a lei do MEI. Quaest divulga pesquisa às 10h de Brasília. Último dia de pagamento do Bolsa Família de outubro."),
                 ("Qui 22", "Datafolha divulga pesquisa do 2º turno."),
                 ("Sex 23", "Debate na TV Globo, depois do Jornal Nacional, o último antes da votação."),
-                ("Sáb 24", "Últimas pesquisas antes da votação: Quaest, Datafolha, AtlasIntel e CNT/MDA."),
+                ("Sáb 24", "Últimas pesquisas antes da votação: Quaest, Datafolha, Atlas e CNT/MDA."),
                 ("Dom 25", "2º turno das eleições, das 8h às 17h de Brasília (7h às 16h em Mato Grosso)."),
             ],
         },
         "itens": [
-            ("Lula pede ao TSE que abra os sigilos bancário, fiscal e telefônico dele, de Janja e dos cinco filhos, se Flávio Bolsonaro fizer o mesmo com os dele e os da família. Aliados de Flávio dizem que ele não vai aceitar.", None),
-            ("Duas pesquisas divulgadas hoje mostram Flávio com 51% dos votos válidos e Lula com 49%: Meio/Ideia (51,1% a 48,9%) e Palver (51% a 49%). Nas duas, empate técnico.", None),
-            ("Itamaraty acusa o presidente argentino, Javier Milei, de tentar interferir na eleição depois que ele chamou Lula de \"ladrão\" e sugeriu fraude.", None),
-            ("A semana: Quaest sai hoje às 10h e Datafolha, amanhã (22). Debate na Globo na sexta (23), últimas pesquisas no sábado (24) e 2º turno no domingo, 25.", None),
+            ("Lula sanciona hoje a lei que perdoa dívidas de 3,6 milhões de MEIs, que somam R$ 12,57 bilhões, e sobe o teto de faturamento para R$ 110 mil em 2027. Para manter o perdão, o DAS precisa ficar em dia por seis meses.", None),
+            ("Queimada segue proibida em Mato Grosso até 30 de novembro. A multa vai de R$ 3 mil por hectare em pasto ou lavoura a R$ 10 mil por hectare em vegetação nativa.", None),
+            ("Duas pesquisas divulgadas hoje mostram Flávio com 51% dos votos válidos e Lula com 49%. Nas duas, empate técnico. A Quaest sai às 10h.", None),
+            ("MPE pede ao TSE que garanta o voto indígena no domingo em Mato Grosso e em outros 5 estados, depois de relatos de falta de transporte no 1º turno.", None),
         ],
-        "fonte": "Fontes: Agência Brasil, SBT News, Metrópoles, Times Brasil, Terra, Poder360, MDS, Globo e TSE",
+        "fonte": "Fontes: Agência Senado, PGFN, CNN Brasil, Decreto estadual 2.015/2026, Metrópoles, Times Brasil, Terra, Agência Brasil, MDS, Globo e TSE",
     },
     {
         "data": "2026-10-20", "pasta": "pp/2026-10-20", "telas": 5,
